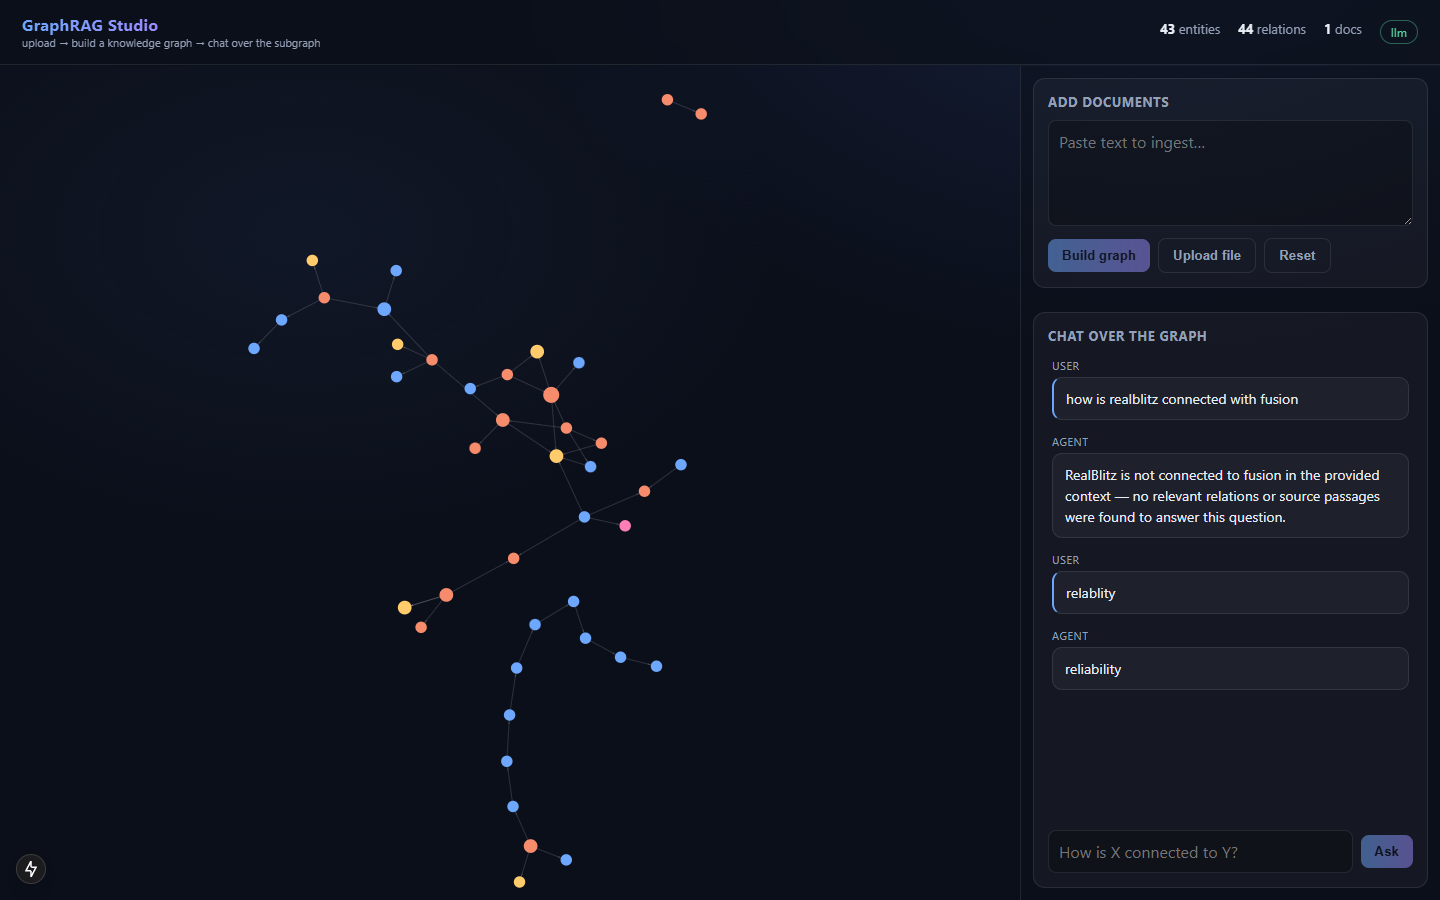
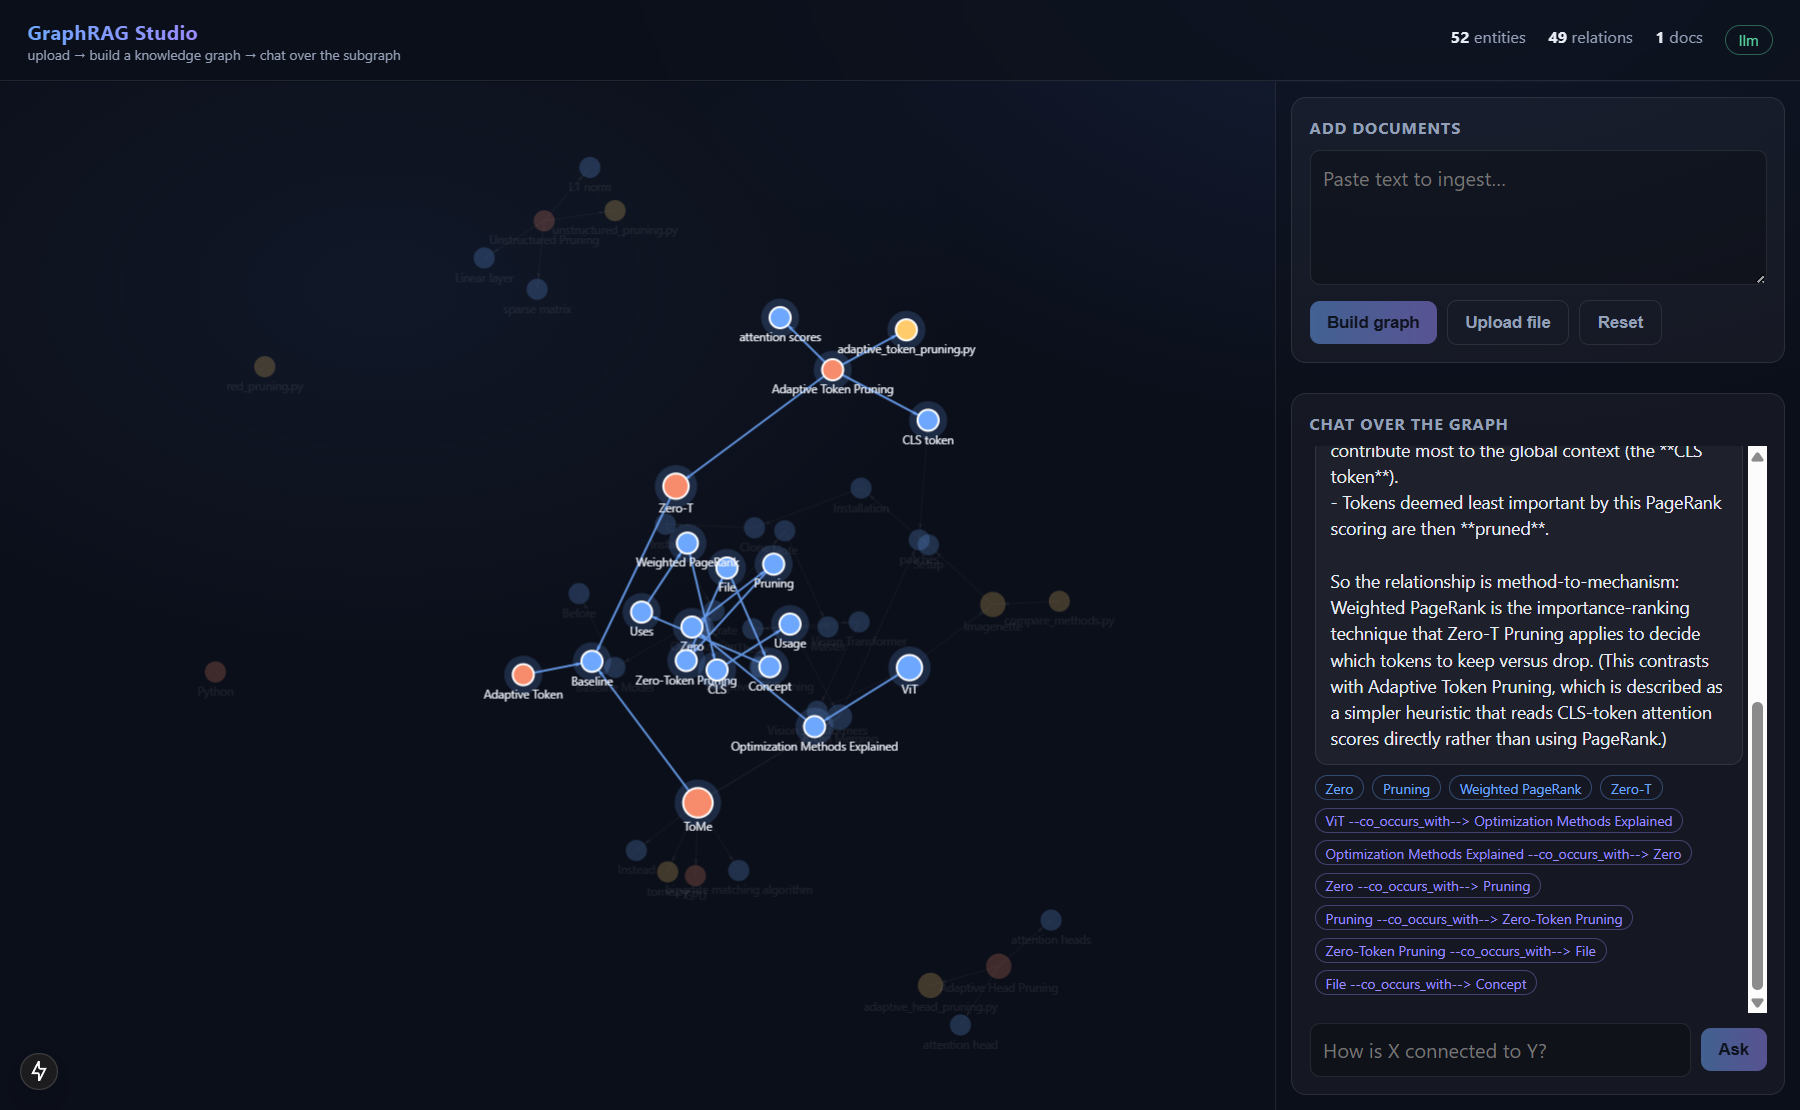
Improve graph rendering + refresh thesis demo screenshot
GraphView: zoom-to-fit on layout settle, always-on node labels (readable at any
zoom), wider force spacing, and a glow/dim treatment so the retrieved subgraph
stands out against the rest. Refresh the thesis demo screenshot (now a clean run
with the cited multi-hop answer) and update the entity/relation counts.

diff --git a/frontend/components/GraphView.tsx b/frontend/components/GraphView.tsx
@@ -15,6 +15,11 @@ const TYPE_COLORS: Record<string, string> = {
   organization: "#57d9a3",
   product: "#ffcb6b",
   technology: "#f78c6c",
+  method: "#f78c6c",
+  algorithm: "#ff7eb6",
+  dataset: "#80cbc4",
+  model: "#ffcb6b",
+  file: "#aeb6c6",
   place: "#80cbc4",
   event: "#ff7eb6",
 };
@@ -33,6 +38,7 @@ export default function GraphView({
   highlight: Set<string>;
 }) {
   const wrap = useRef<HTMLDivElement>(null);
+  const fgRef = useRef<any>(null);
   const [size, setSize] = useState({ w: 800, h: 600 });
 
   useEffect(() => {
@@ -44,6 +50,14 @@ export default function GraphView({
     ro.observe(wrap.current);
     return () => ro.disconnect();
   }, []);
+
+  // Spread the layout out a bit so labels don't pile up.
+  useEffect(() => {
+    const fg = fgRef.current;
+    if (!fg) return;
+    fg.d3Force("charge")?.strength(-180);
+    fg.d3Force("link")?.distance(58);
+  }, [nodes.length]);
 
   const data = useMemo(
     () => ({
@@ -59,43 +73,60 @@ export default function GraphView({
     <div ref={wrap} style={{ position: "absolute", inset: 0 }}>
       {size.w > 0 && (
         <ForceGraph2D
+          ref={fgRef}
           width={size.w}
           height={size.h}
           graphData={data}
           backgroundColor="rgba(0,0,0,0)"
+          cooldownTicks={120}
+          onEngineStop={() => fgRef.current?.zoomToFit(400, 60)}
           linkColor={(l: any) => {
-            if (!hasHighlight) return "rgba(255,255,255,0.14)";
-            const on =
-              highlight.has(idOf(l.source)) && highlight.has(idOf(l.target));
-            return on ? "rgba(110,168,254,0.7)" : "rgba(255,255,255,0.05)";
+            if (!hasHighlight) return "rgba(255,255,255,0.16)";
+            const on = highlight.has(idOf(l.source)) && highlight.has(idOf(l.target));
+            return on ? "rgba(110,168,254,0.85)" : "rgba(255,255,255,0.05)";
           }}
+          linkWidth={(l: any) =>
+            hasHighlight && highlight.has(idOf(l.source)) && highlight.has(idOf(l.target))
+              ? 1.6
+              : 0.6
+          }
           linkDirectionalArrowLength={3}
           linkDirectionalArrowRelPos={1}
           nodeRelSize={5}
           nodeCanvasObject={(node: any, ctx, scale) => {
             const dim = hasHighlight && !highlight.has(node.id);
+            const on = hasHighlight && highlight.has(node.id);
             const r = 4 + Math.min(node.mentions || 0, 6);
-            ctx.globalAlpha = dim ? 0.25 : 1;
+            ctx.globalAlpha = dim ? 0.22 : 1;
+
+            // glow on highlighted nodes
+            if (on) {
+              ctx.beginPath();
+              ctx.arc(node.x, node.y, r + 4, 0, 2 * Math.PI);
+              ctx.fillStyle = "rgba(110,168,254,0.18)";
+              ctx.fill();
+            }
             ctx.beginPath();
             ctx.arc(node.x, node.y, r, 0, 2 * Math.PI);
             ctx.fillStyle = colorFor(node.type);
             ctx.fill();
-            if (hasHighlight && highlight.has(node.id)) {
-              ctx.lineWidth = 1.5 / scale;
+            if (on) {
+              ctx.lineWidth = 1.6 / scale;
               ctx.strokeStyle = "#ffffff";
               ctx.stroke();
             }
+
+            // labels: always drawn, sized to stay readable at any zoom
             const label: string = node.label || node.id;
-            if (scale > 1.3 || (hasHighlight && highlight.has(node.id))) {
-              ctx.font = `${11 / scale}px ui-sans-serif, system-ui`;
-              ctx.fillStyle = dim ? "rgba(232,236,244,0.4)" : "#e8ecf4";
-              ctx.textAlign = "center";
-              ctx.fillText(label, node.x, node.y + r + 9 / scale);
-            }
+            const fontSize = Math.max(9 / scale, Math.min(4, 9 / scale) + 1.5);
+            ctx.font = `${fontSize}px ui-sans-serif, system-ui`;
+            ctx.textAlign = "center";
+            ctx.textBaseline = "top";
+            ctx.fillStyle = dim ? "rgba(232,236,244,0.35)" : "#e8ecf4";
+            ctx.fillText(label, node.x, node.y + r + 2);
             ctx.globalAlpha = 1;
           }}
-          nodeLabel={(n: any) => `${n.label} (${n.type})`}
-          cooldownTicks={120}
+          nodeLabel={(n: any) => `${n.label} — ${n.type}`}
         />
       )}
     </div>

diff --git a/README.md b/README.md
@@ -32,8 +32,9 @@ library — Studio is the application layer on top of it.
 ### On a real corpus — a Master's-thesis repository
 
 Pointed at a thesis repo on efficient Vision Transformer inference and run with a **Claude
-subscription (OAuth, no API key)**, Studio extracted **43 entities and 44 relations** from
-the project's documentation:
+subscription (OAuth, no API key)**, Studio extracted **52 entities and 49 relations** from
+the project's documentation. Asking a question highlights the retrieved subgraph (below) and
+dims the rest:
 
 ![GraphRAG Studio on a thesis repository](docs/screenshot-thesis.png)
 
